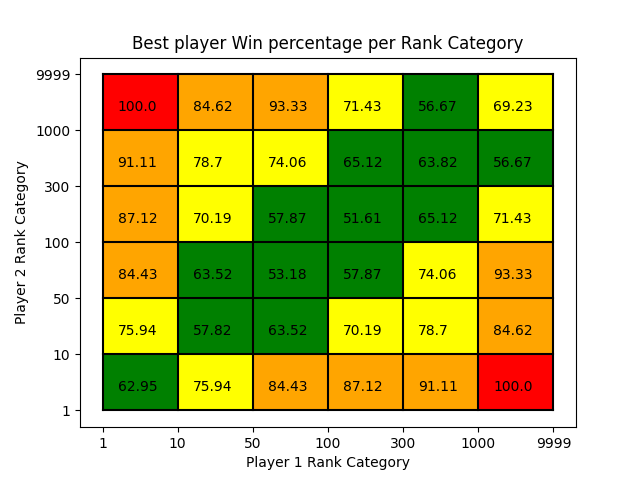
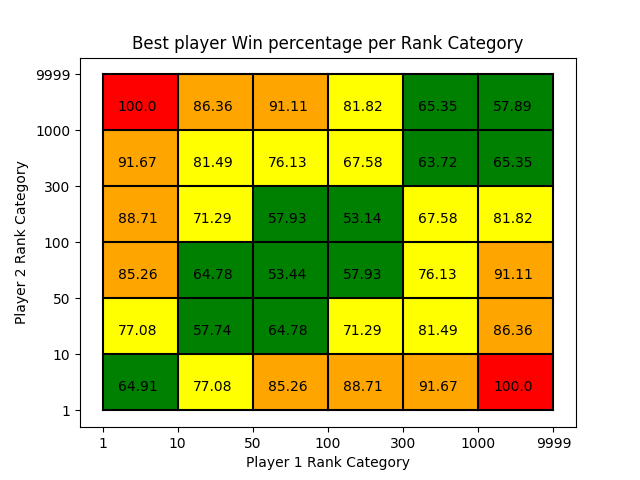
add: match history thourgh match id kept in match file

diff --git a/python/data/player.py b/python/data/player.py
@@ -21,7 +21,8 @@ class Player:
         self.height = height
 
         self.last_matches = ["", "", "", "", ""]
-        self.matches = []
+        # self.matches = []
+        self.matches_history = []
         self.victories_percentage = 0
 
         self.matches_hard = []
@@ -78,7 +79,7 @@ class Player:
             + str(self.height)
         )
 
-    def _add_victory(self, id_loser, tournament_date="19000101"):
+    def _add_victory(self, id_loser, match_id, tournament_date="19000101"):
         """
         Update last_matches argument with a victories and updates versus argument using id_loser
         :param id_loser: ID of los of match against current player
@@ -90,12 +91,12 @@ class Player:
         self.last_matches[1] = self.last_matches[0]
         self.last_matches[0] = "V"
         if id_loser in self.versus.keys():
-            self.versus[id_loser].append(["V", tournament_date])
+            self.versus[id_loser].append(["V", tournament_date, match_id])
         else:
-            self.versus[id_loser] = [["V", tournament_date]]
-        self._update_victories_percentage("V")
+            self.versus[id_loser] = [["V", tournament_date, match_id]]
+        self._update_victories_percentage("V", match_id)
 
-    def _add_defeat(self, id_winner, tournament_date="19000101"):
+    def _add_defeat(self, id_winner, match_id, tournament_date="19000101"):
         """
         Add a Defeat
         :param id_winner:
@@ -107,20 +108,21 @@ class Player:
         self.last_matches[1] = self.last_matches[0]
         self.last_matches[0] = "D"
         if id_winner in self.versus.keys():
-            self.versus[id_winner].append(["D", tournament_date])
+            self.versus[id_winner].append(["D", tournament_date, match_id])
         else:
-            self.versus[id_winner] = [["D", tournament_date]]
-        self._update_victories_percentage("D")
+            self.versus[id_winner] = [["D", tournament_date, match_id]]
+        self._update_victories_percentage("D", match_id)
 
-    def _update_victories_percentage(self, match_outcome):
+    def _update_victories_percentage(self, match_outcome, match_id):
         """
         Updates Victories Percentage with a V/D of last match
         :param match_outcome:
         :return:
         """
-        self.matches.append(match_outcome)
-        victories_number = self.matches.count("V")
-        matches_number = len(self.matches)
+        self.matches_history.append([match_outcome, match_id])
+        # self.matches.append(match_outcome)
+        victories_number = [_[0] for _ in self.matches_history].count("V")
+        matches_number = len(self.matches_history)
         self.victories_percentage = (victories_number / matches_number) * 100
 
     def _update_surfaces_victories_percentage(self, surface, outcome):
@@ -413,13 +415,12 @@ class Player:
         """
 
         # Update Rankings ?
-
         if match.winner.id == self.id:
-            self._add_victory(match.loser.id, tournament_date=match.tournament_date)
+            self._add_victory(match.loser.id, match_id=match.id, tournament_date=match.tournament_date)
             self._update_surfaces_victories_percentage(match.surface, "V")
         else:
             assert match.loser.id == self.id
-            self._add_defeat(match.winner.id, tournament_date=match.tournament_date)
+            self._add_defeat(match.winner.id, match_id=match.id, tournament_date=match.tournament_date)
             self._update_surfaces_victories_percentage(match.surface, "D")
         self._update_fatigue(match.tournament_date, match.sets_number)
 
@@ -442,22 +443,22 @@ class Player:
             "ID": [self.id],
             "Ranking": [self.ranking],
             "Ranking_Points": [self.ranking_points],
-            "Ranking_History": [self.rankings_history],
+            "Ranking_History": [self.rankings_history.copy()],
             "Best_Rank": [self._get_best_ranking()],
             "Birth_Year": [self.birthdate],
             "Versus": [
-                self.versus if opponent is None else self.versus.get(opponent, [])
+                self.versus.copy() if opponent is None else self.versus.get(opponent, []).copy()
             ],
             "Hand": [self.hand],
             "Last_Tournament_Date": [
                 self.fatigue_features["previous tournament"]["date"]
             ],
             "Height": [self.height],
-            "Matches": [self.matches],
-            "Matches_Clay": [self.matches_clay],
-            "Matches_Carpet": [self.matches_carpet],
-            "Matches_Grass": [self.matches_grass],
-            "Matches_Hard": [self.matches_hard],
+            "Matches": [self.matches_history.copy()],
+            "Matches_Clay": [self.matches_clay.copy()],
+            "Matches_Carpet": [self.matches_carpet.copy()],
+            "Matches_Grass": [self.matches_grass.copy()],
+            "Matches_Hard": [self.matches_hard.copy()],
             "Victories_Percentage": [self.victories_percentage],
             "Clay_Victories_Percentage": [self.clay_victories_percentage],
             "Carpet_Victories_Percentage": [self.carpet_victories_percentage],

diff --git a/python/data/data_loader.py b/python/data/data_loader.py
@@ -114,11 +114,12 @@ def load_match_data_from_path(
         return file_id
 
     match_df = pd.read_csv(path_to_matchs_file)
+    """
     match_df["match_id"] = match_df.apply(
         lambda row: extract_file_id(path_to_matchs_file) + "_" + str(row.name),
         axis=1,
     )
-
+    """
     matches_data = []
     for n_row, row in match_df.iterrows():
         m_winner = players_db[row["winner_id"]]
@@ -127,7 +128,7 @@ def load_match_data_from_path(
         m_surface = row["surface"]
 
         match_o = match.Match(
-            winner=m_winner, loser=m_loser, tournament=m_tournament, surface=m_surface
+            winner=m_winner, loser=m_loser, tournament=m_tournament, surface=m_surface, id_prefix=extract_file_id(path_to_matchs_file)
         )
         match_o.instantiate_from_data_row(row)
         (
@@ -136,7 +137,7 @@ def load_match_data_from_path(
             l_data,
         ) = match_o.get_prior_data_and_update_players_stats()
 
-        match_data["match_id"] = row["match_id"]
+        match_data["match_id"] = match_o.id
 
         to_1 = {}
         to_2 = {}
@@ -188,7 +189,6 @@ def load_match_data_from_path(
                 [pd.concat([match_stats] * 2, axis=0), ms_concat_1, ms_concat_2], axis=1
             )
             final_df = pd.concat([final_df, match_stats_df], axis=1)
-
         matches_data.append(final_df)
 
     matches_data = pd.concat(matches_data, axis=0)
@@ -203,10 +203,6 @@ def matches_data_loader(
     get_match_statistics=False,
     get_reversed_match_data=False,
 ):
-    """
-    Loads all matches data
-    :return:
-    """
 
     # Check if data already in cache
     if os.path.exists(os.path.join(path_to_cache, "players_db")):

diff --git a/python/data/match.py b/python/data/match.py
@@ -5,11 +5,12 @@ import numpy as np
 
 
 class Match:
-    def __init__(self, winner, loser, tournament, surface):
+    def __init__(self, winner, loser, tournament, surface, id_prefix=""):
         self.winner = winner
         self.loser = loser
         self.tournament = tournament
         self.surface = surface
+        self.id_prefix = id_prefix
 
         self.tournament_date = ""
         self.tournament_level = ""
@@ -196,6 +197,8 @@ class Match:
         self.score = data_row["score"]
         self.elapsed_minutes = data_row["minutes"]
         self.best_of = data_row["best_of"]
+
+        self.id = self.id_prefix + "_" + str(data_row.name)
 
         self.match_time_players_data = {
             "winner": {

diff --git a/examples/data/data_loading.py b/examples/data/data_loading.py
@@ -12,7 +12,7 @@ data_df = matches_data_loader(
     path_to_data="../../submodules/tennis_atp",
     path_to_cache="../../cache",
     flush_cache=False,
-    keep_values_from_year=2015,
+    keep_values_from_year=2010,
     get_match_statistics=True,
     get_reversed_match_data=True,
 )
